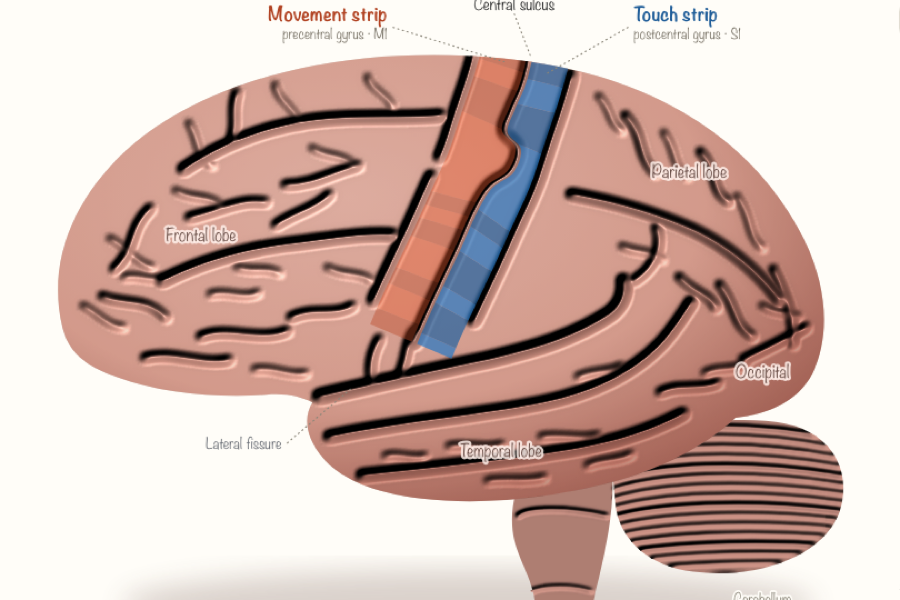
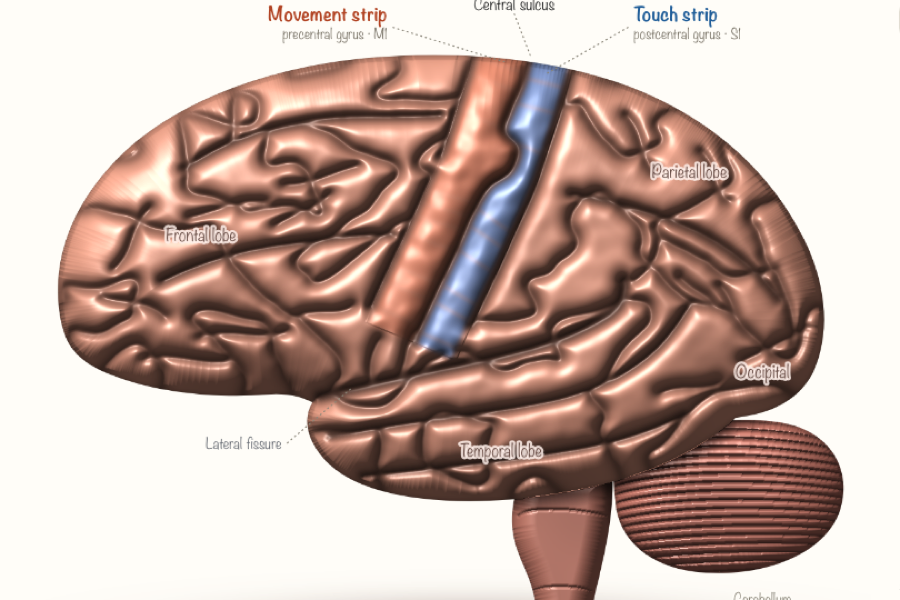
Sensation in the Brain: realistic shaded cortex, fix clipped slice labels
Renders the side-view brain from a height map with rounded gyri and
glossy lighting; strips are painted onto the pre/postcentral gyri.

diff --git a/sensation-in-the-brain/index.html b/sensation-in-the-brain/index.html
@@ -39,6 +39,9 @@
 
   .stage{display:grid;grid-template-columns:minmax(0,1.75fr) minmax(280px,1fr);gap:24px;align-items:start}
   svg{display:block;width:100%;height:auto;user-select:none;-webkit-user-select:none}
+  .latbox{position:relative}
+  .latbox canvas{position:absolute;inset:0;width:100%;height:100%;display:block}
+  .latbox svg{position:relative}
   .tip{font-size:14.5px;color:var(--muted);min-height:2.6em;margin:4px 0 0}
   .tip b{color:var(--ink)}
 
@@ -131,47 +134,17 @@
     </div>
     <div class="stage">
       <div>
+        <div class="latbox">
+        <canvas id="latCanvas" aria-hidden="true"></canvas>
         <svg id="lat" viewBox="60 8 900 690" role="img" aria-labelledby="latTitle">
           <title id="latTitle">Side view of the left hemisphere with the movement strip in front of the central sulcus and the touch strip behind it</title>
-          <defs>
-            <filter id="relief" x="-3%" y="-3%" width="106%" height="106%" color-interpolation-filters="sRGB">
-              <feGaussianBlur in="SourceGraphic" stdDeviation="2.8" result="b"/>
-              <feColorMatrix in="b" type="luminanceToAlpha" result="h"/>
-              <feDiffuseLighting in="h" surfaceScale="8" diffuseConstant="1.18" lighting-color="#ffffff" result="d"><feDistantLight azimuth="228" elevation="44"/></feDiffuseLighting>
-              <feSpecularLighting in="h" surfaceScale="8" specularConstant=".55" specularExponent="18" lighting-color="#fff6f0" result="sp"><feDistantLight azimuth="228" elevation="56"/></feSpecularLighting>
-              <feComposite in="sp" in2="SourceAlpha" operator="in" result="sp2"/>
-              <feFlood flood-color="#e6ad9e" result="c"/>
-              <feBlend in="d" in2="c" mode="multiply" result="t"/>
-              <feGaussianBlur in="SourceGraphic" stdDeviation="5.5" result="b2"/>
-              <feComponentTransfer in="b2" result="ao"><feFuncR type="linear" slope=".55" intercept=".45"/><feFuncG type="linear" slope=".6" intercept=".4"/><feFuncB type="linear" slope=".6" intercept=".4"/></feComponentTransfer>
-              <feBlend in="t" in2="ao" mode="multiply" result="t2"/>
-              <feComposite in="t2" in2="sp2" operator="arithmetic" k2="1" k3=".5" result="t3"/>
-              <feComposite in="t3" in2="SourceAlpha" operator="in"/>
-            </filter>
-            <filter id="relief2" x="-3%" y="-3%" width="106%" height="106%" color-interpolation-filters="sRGB">
-              <feGaussianBlur in="SourceGraphic" stdDeviation="1.6" result="b"/>
-              <feColorMatrix in="b" type="luminanceToAlpha" result="h"/>
-              <feDiffuseLighting in="h" surfaceScale="5" diffuseConstant="1.15" lighting-color="#ffffff" result="d"><feDistantLight azimuth="228" elevation="44"/></feDiffuseLighting>
-              <feFlood flood-color="#d99d8f" result="c"/>
-              <feBlend in="d" in2="c" mode="multiply" result="t"/>
-              <feGaussianBlur in="SourceGraphic" stdDeviation="3" result="b2"/>
-              <feComponentTransfer in="b2" result="ao"><feFuncR type="linear" slope=".5" intercept=".5"/><feFuncG type="linear" slope=".55" intercept=".45"/><feFuncB type="linear" slope=".55" intercept=".45"/></feComponentTransfer>
-              <feBlend in="t" in2="ao" mode="multiply" result="t2"/>
-              <feComposite in="t2" in2="SourceAlpha" operator="in"/>
-            </filter>
-            <filter id="shadow" x="-20%" y="-20%" width="140%" height="140%"><feGaussianBlur stdDeviation="14"/></filter>
-            <radialGradient id="vign" cx="38%" cy="32%" r="75%">
-              <stop offset="0" stop-color="#ffffff"/><stop offset=".62" stop-color="#f3e4df"/><stop offset="1" stop-color="#b98c84"/>
-            </radialGradient>
-            <clipPath id="cerClip"><path id="cerClipPath"/></clipPath>
-            <clipPath id="cbClip"><path id="cbClipPath"/></clipPath>
-          </defs>
-          <g id="latBack"></g>
-          <g id="latCer"></g>
+          <defs><clipPath id="cerClip"><path id="cerClipPath"/></clipPath></defs>
+          <path id="latPlaceholder" fill="#e2b3a5"/>
           <g id="latStrips" clip-path="url(#cerClip)"></g>
           <g id="latLabels"></g>
           <g id="latProbe"></g>
         </svg>
+        </div>
         <p class="tip" id="tip1" aria-live="polite">Tap the <b class="m">front strip</b> or the <b class="s">back strip</b>, or pick a body part below.</p>
         <div class="chips" id="chips1" role="group" aria-label="Stimulate a body part"></div>
       </div>
@@ -193,7 +166,7 @@
     </div>
     <div class="stage">
       <div>
-        <svg id="slice" viewBox="0 0 720 560" role="img" aria-labelledby="sliceTitle">
+        <svg id="slice" viewBox="0 -96 850 666" role="img" aria-labelledby="sliceTitle">
           <title id="sliceTitle">Slice through the left hemisphere showing the body map along the strip</title>
           <defs><mask id="gm2" maskUnits="userSpaceOnUse" x="0" y="0" width="720" height="560"></mask></defs>
           <g id="sliceBrain"></g>
@@ -532,46 +505,149 @@ const SULCI_MINOR=[
  'M826 386 C852 374 872 364 892 352','M858 292 C870 318 880 340 878 370','M802 308 C820 330 816 350 836 362',
  'M760 300 C776 318 790 316 798 332','M740 420 C760 410 780 418 800 410'
 ];
-const SULCI_TERT=[
- 'M250 140 C262 158 256 176 274 184','M340 100 C342 118 362 124 366 142','M436 92 C440 108 458 110 462 124','M378 166 C392 176 410 172 420 182',
- 'M236 210 C252 220 268 214 282 224','M168 260 C186 268 194 286 212 290','M140 330 C156 338 166 352 182 352','M272 318 C290 312 306 324 322 316',
- 'M318 396 C338 392 352 404 372 400','M182 300 C198 296 212 306 226 300','M300 290 C318 296 330 288 344 296','M394 290 C410 300 428 294 440 304',
- 'M676 112 C690 124 686 140 700 148','M744 150 C758 168 752 184 768 196','M820 216 C836 236 830 256 846 270','M700 268 C716 276 728 270 742 282',
- 'M846 330 C862 340 870 334 884 342','M616 466 C640 462 656 470 676 464','M520 476 C540 472 556 480 576 474','M560 512 C580 508 600 514 620 508',
- 'M664 496 C680 488 696 492 710 484','M454 486 C470 482 482 490 496 486','M786 400 C800 392 816 398 830 390','M654 404 C670 396 686 400 700 392'
-];
+
+const FOLIA=[]; for(let i=0;i<19;i++){ const y=452+i*8.6, b=i*0.9; FOLIA.push('M680 '+(y+18)+' C730 '+(y-6+b)+' 830 '+(y-12+b)+' 940 '+(y+14-b*.6)); }
+const STEM_LINES=['M592 548 C600 540 640 538 684 548','M606 626 C620 620 650 620 668 626'];
+
+/* ---- realistic surface: height map → lit, glossy render on a canvas ---- */
+function makeNoise(seed){ const R=rng(seed), p=new Uint8Array(256); for(let i=0;i<256;i++) p[i]=i;
+  for(let i=255;i>0;i--){ const j=Math.floor(R()*(i+1)), t=p[i]; p[i]=p[j]; p[j]=t; }
+  const P=new Uint8Array(512); for(let i=0;i<512;i++) P[i]=p[i&255];
+  const GX=[1,-1,1,-1,1,-1,0,0], GY=[1,1,-1,-1,0,0,1,-1], F2=0.5*(Math.sqrt(3)-1), G2=(3-Math.sqrt(3))/6;
+  return function(x,y){ const s=(x+y)*F2, i=Math.floor(x+s), j=Math.floor(y+s), t=(i+j)*G2, x0=x-(i-t), y0=y-(j-t);
+    const i1=x0>y0?1:0, j1=1-i1, x1=x0-i1+G2, y1=y0-j1+G2, x2=x0-1+2*G2, y2=y0-1+2*G2, ii=i&255, jj=j&255; let n=0, q, g;
+    q=0.5-x0*x0-y0*y0; if(q>0){ g=P[ii+P[jj]]&7; q*=q; n+=q*q*(GX[g]*x0+GY[g]*y0); }
+    q=0.5-x1*x1-y1*y1; if(q>0){ g=P[ii+i1+P[jj+j1]]&7; q*=q; n+=q*q*(GX[g]*x1+GY[g]*y1); }
+    q=0.5-x2*x2-y2*y2; if(q>0){ g=P[ii+1+P[jj+1]]&7; q*=q; n+=q*q*(GX[g]*x2+GY[g]*y2); }
+    return 70*n; }; }
+// exact Euclidean distance transform (Felzenszwalb & Huttenlocher); sites where mask=1
+function edt(mask,W,H){
+  const INF=1e20, M=Math.max(W,H), f=new Float64Array(M), d=new Float64Array(M), z=new Float64Array(M+1), v=new Int32Array(M), g=new Float64Array(W*H);
+  for(let i=0;i<W*H;i++) g[i]=mask[i]?0:INF;
+  function dt(n){ let k=0; v[0]=0; z[0]=-INF; z[1]=INF;
+    for(let q=1;q<n;q++){ let s=((f[q]+q*q)-(f[v[k]]+v[k]*v[k]))/(2*q-2*v[k]);
+      while(s<=z[k]){ k--; s=((f[q]+q*q)-(f[v[k]]+v[k]*v[k]))/(2*q-2*v[k]); }
+      k++; v[k]=q; z[k]=s; z[k+1]=INF; }
+    k=0; for(let q=0;q<n;q++){ while(z[k+1]<q) k++; d[q]=(q-v[k])*(q-v[k])+f[v[k]]; } }
+  for(let x=0;x<W;x++){ for(let y=0;y<H;y++) f[y]=g[y*W+x]; dt(H); for(let y=0;y<H;y++) g[y*W+x]=d[y]; }
+  const out=new Float32Array(W*H);
+  for(let y=0;y<H;y++){ for(let x=0;x<W;x++) f[x]=g[y*W+x]; dt(W); for(let x=0;x<W;x++) out[y*W+x]=Math.sqrt(d[x]); }
+  return out;
+}
+const SEGS=[]; let LR=null;
+function renderLat(){
+  const s=1.4, W=Math.round(900*s), H=Math.round(690*s), N=W*H;
+  const oc=document.createElement('canvas'); oc.width=W; oc.height=H; const c=oc.getContext('2d',{willReadFrequently:true});
+  const raster=(draw,blur)=>{ c.setTransform(1,0,0,1,0,0); c.clearRect(0,0,W,H); c.filter=blur?'blur('+(blur*s)+'px)':'none';
+    c.setTransform(s,0,0,s,-60*s,-8*s); draw(c); c.filter='none'; return c.getImageData(0,0,W,H).data; };
+  const alpha=d=>{ const a=new Float32Array(N); for(let i=0;i<N;i++) a[i]=d[i*4+3]/255; return a; };
+  const site=(a,th)=>{ const m=new Uint8Array(N); for(let i=0;i<N;i++) m[i]=a[i]>th?1:0; return m; };
+  const outside=a=>{ const m=new Uint8Array(N); for(let i=0;i<N;i++) m[i]=a[i]<0.5?1:0; return m; };
+  const fillP=d=>cc=>{ cc.fillStyle='#000'; cc.fill(new Path2D(d)); };
+  const strokes=(list,wf)=>cc=>{ cc.strokeStyle='#000'; cc.lineCap='round'; cc.lineJoin='round'; list.forEach((d,i)=>{ cc.lineWidth=wf(i); cc.stroke(new Path2D(d)); }); };
+  const aCer=alpha(raster(fillP(CER))), aCb=alpha(raster(fillP(CB))), aSt=alpha(raster(fillP(STEM)));
+  const majorD=SULCI_MAJOR.concat([pathD(Pc),pathD(offCurve(Sc,'move',WID.move+6,0,0.43)),pathD(offCurve(Sc,'move',WID.move+6,0.5,0.95)),pathD(offCurve(Sc,'touch',WID.touch+6,0,0.88))]);
+  const majM=site(alpha(raster(strokes(majorD,i=>i===0?6:i===SULCI_MAJOR.length?2.4:1.4))),0.3);
+  const minM=site(alpha(raster(strokes(SULCI_MINOR.concat(STEM_LINES),()=>1))),0.3);
+  const dMaj=edt(majM,W,H), dMin=edt(minM,W,H);
+  const dFol=edt(site(alpha(raster(cc=>{ cc.save(); cc.clip(new Path2D(CB)); strokes(FOLIA,()=>0.8)(cc); cc.restore(); })),0.3),W,H);
+  const eCer=edt(outside(aCer),W,H), eCb=edt(outside(aCb),W,H), eSt=edt(outside(aSt),W,H), oCer=edt(site(aCer,0.5),W,H), oCb=edt(site(aCb,0.5),W,H);
+  const zone=alpha(raster(fillP(pathD(offCurve(Sc,'move',WID.move+5,0,1).concat(offCurve(Sc,'touch',WID.touch+5,0,1).reverse()),true))));
+  const tint={move:alpha(raster(cc=>SEGS.forEach(q=>{ if(q.sys==='move') fillP(pathD(q.poly,true))(cc); }),2.2)),
+              touch:alpha(raster(cc=>SEGS.forEach(q=>{ if(q.sys==='touch') fillP(pathD(q.poly,true))(cc); }),2.2))};
+  const sidD=raster(cc=>SEGS.forEach((q,k)=>{ cc.fillStyle='rgb('+(k+1)+',0,0)'; cc.fill(new Path2D(pathD(q.poly,true))); }));
+  const SID=new Uint8Array(N); for(let i=0;i<N;i++) SID[i]=sidD[i*4+3]>200?sidD[i*4]:0;
+  const nz=makeNoise(7), nw=makeNoise(19), nb=makeNoise(31);
+  const shape=(t,p)=>1-Math.pow(1-Math.min(1,t),p);
+  // random sulci = zero-crossings of a warped noise field, joined with the named sulci; gyri bulge between them
+  const NZ=new Float32Array(N);
+  for(let py=0;py<H;py++) for(let px=0;px<W;px++){ const i=py*W+px; if(aCer[i]<=0) continue;
+    const x=60+px/s, y=8+py/s, wx=x+16*nw(x/150,y/150), wy=y+16*nw(x/150+37,y/150+71);
+    NZ[i]=nz(wx/146,wy/98)+0.12*nz(wx/60+9,wy/46+3); }
+  const allM=new Uint8Array(N);
+  for(let i=0;i<N-W-1;i++){ if(majM[i]||minM[i]){ allM[i]=1; continue; }
+    if(aCer[i]>0.5 && zone[i]<0.4 && (NZ[i]*NZ[i+1]<0 || NZ[i]*NZ[i+W]<0)) allM[i]=1; }
+  const dAll=edt(allM,W,H);
+  // gyral crowns: rounded profile from the distance to the nearest sulcus, blurred so ridges don't crease
+  const GY=new Float32Array(N);
+  for(let i=0;i<N;i++){ if(aCer[i]<=0) continue; const R=lerp(19,25,zone[i]), tg=clamp((dAll[i]/s-1.6)/R,0,1); GY[i]=Math.sqrt(1-(1-tg)*(1-tg)); }
+  (function blur(a,r,pass){ const t=new Float32Array(N);
+    for(let p=0;p<pass;p++){
+      for(let y=0;y<H;y++){ let acc=0; const o=y*W; for(let x=-r;x<W;x++){ if(x+r<W) acc+=a[o+x+r]; if(x-r-1>=0) acc-=a[o+x-r-1]; if(x>=0) t[o+x]=acc/(2*r+1); } }
+      for(let x=0;x<W;x++){ let acc=0; for(let y=-r;y<H;y++){ if(y+r<H) acc+=t[(y+r)*W+x]; if(y-r-1>=0) acc-=t[(y-r-1)*W+x]; if(y>=0) a[y*W+x]=acc/(2*r+1); } } }
+  })(GY,Math.round(2.6*s),2);
+  const Hh=new Float32Array(N), AO=new Float32Array(N), ALB=new Float32Array(N*3), REG=new Uint8Array(N), A=new Float32Array(N);
+  for(let py=0;py<H;py++) for(let px=0;px<W;px++){
+    const i=py*W+px, a=Math.max(aCer[i],aCb[i],aSt[i]); A[i]=a; if(a<=0) continue;
+    const x=60+px/s, y=8+py/s, tone=1+0.07*nb(x/160,y/160);
+    if(aCer[i]>=0.5 || (aCer[i]>0 && aCer[i]>=aCb[i] && aCer[i]>=aSt[i])){
+      REG[i]=1; const de=eCer[i]/s, t=Math.min(1,de/125), dome=Math.sqrt(1-(1-t)*(1-t));
+      const zz=zone[i], gy=GY[i];
+      const lump=(0.5+0.5*nb(x/34,y/34))*(0.4+0.6*zz);
+      const deep=shape(dMaj[i]/s/10,2);
+      Hh[i]=22+72*dome+(17*gy+2.2*lump)*Math.min(1,de/5);
+      AO[i]=(0.5+0.5*Math.pow(gy,0.7))*(0.72+0.28*deep);
+      ALB[i*3]=220*tone; ALB[i*3+1]=150*tone; ALB[i*3+2]=126*tone;
+    } else if(aCb[i]>=aSt[i]){
+      REG[i]=2; const de=eCb[i]/s, t=Math.min(1,de/70), dome=Math.sqrt(1-(1-t)*(1-t)), hf=shape(dFol[i]/s/3.2,2);
+      Hh[i]=46*dome+4.5*hf*Math.min(1,de/3); AO[i]=(0.66+0.34*hf)*(0.35+0.65*Math.min(1,oCer[i]/s/16));
+      ALB[i*3]=184*tone; ALB[i*3+1]=110*tone; ALB[i*3+2]=96*tone;
+    } else {
+      REG[i]=3; const de=eSt[i]/s, t=Math.min(1,de/26), dome=Math.sqrt(1-(1-t)*(1-t)), hs=0.4+0.6*shape(dMin[i]/s/3,2);
+      Hh[i]=34*dome+3*hs; AO[i]=(0.6+0.4*hs)*(0.35+0.65*Math.min(1,oCer[i]/s/18))*(0.45+0.55*Math.min(1,oCb[i]/s/14));
+      ALB[i*3]=190*tone; ALB[i*3+1]=118*tone; ALB[i*3+2]=102*tone;
+    }
+  }
+  let Lx=-0.42,Ly=-0.62,Lz=0.66; const Ln=Math.hypot(Lx,Ly,Lz); Lx/=Ln; Ly/=Ln; Lz/=Ln;
+  let hx=Lx,hy=Ly,hz=Lz+1; const hn=Math.hypot(hx,hy,hz); hx/=hn; hy/=hn; hz/=hn;
+  const LIGHT=new Float32Array(N), SPEC=new Float32Array(N), SH=new Float32Array(N);
+  for(let py=1;py<H-1;py++) for(let px=1;px<W-1;px++){
+    const i=py*W+px; const x=60+px/s, y=8+py/s;
+    const dx=(x-540)/330, dy=(y-652)/30; SH[i]=0.26*Math.exp(-2.4*dx*dx-1.8*dy*dy);
+    if(!REG[i]) continue;
+    const gx=(Hh[i+1]-Hh[i-1])*s/2, gy=(Hh[i+W]-Hh[i-W])*s/2, l=Math.hypot(gx,gy,1), nx=-gx/l, ny=-gy/l, nzv=1/l;
+    const dif=Math.max(0,nx*Lx+ny*Ly+nzv*Lz), nh=Math.max(0,nx*hx+ny*hy+nzv*hz);
+    LIGHT[i]=(0.36+0.72*dif)*AO[i];
+    SPEC[i]=(0.38*Math.pow(nh,34)+0.1*Math.pow(nh,6))*(0.4+0.6*AO[i]);
+  }
+  const cv=$('latCanvas'); cv.width=W; cv.height=H;
+  LR={W,H,N,LIGHT,SPEC,ALB,REG,A,SH,SID,tint,ctx:cv.getContext('2d'),img:new ImageData(W,H)};
+  $('latPlaceholder').setAttribute('display','none');
+  paintLat();
+}
+function composeLat(){
+  if(!LR) return;
+  const {N,LIGHT,SPEC,ALB,REG,A,SH,SID,tint,img}=LR, d=img.data, hov=paintLat.hov;
+  const BASE={move:[238,122,86],touch:[96,150,228]};
+  const seg=SEGS.map(q=>{ const sel=s1sel&&s1sel.sys===q.sys&&s1sel.id===q.id, hv=hov&&hov.sys===q.sys&&hov.id===q.id;
+    const b=BASE[q.sys], w=sel?1:hv?.92:q.sys===s1sys?.74:.46, k=sel?.3:hv?.15:0;
+    return {sys:q.sys,w,c:[lerp(b[0],255,k),lerp(b[1],255,k),lerp(b[2],255,k)]}; });
+  const baseW={move:s1sys==='move'?.74:.46, touch:s1sys==='touch'?.74:.46};
+  for(let i=0;i<N;i++){
+    const a=A[i], j=i*4;
+    if(!REG[i]){ d[j]=90; d[j+1]=58; d[j+2]=48; d[j+3]=SH[i]*255; continue; }
+    let r=ALB[i*3], g=ALB[i*3+1], b=ALB[i*3+2];
+    if(REG[i]===1){
+      for(const sys of ['move','touch']){ const m=tint[sys][i]; if(m<=0) continue;
+        const q=SID[i]?seg[SID[i]-1]:null, use=q&&q.sys===sys?q:null, w=(use?use.w:baseW[sys])*m, cc=use?use.c:BASE[sys];
+        r=lerp(r,cc[0],w); g=lerp(g,cc[1],w); b=lerp(b,cc[2],w); }
+    }
+    const L=LIGHT[i], S=SPEC[i]*255;
+    r=r*L+S; g=g*L+S; b=b*L+S;
+    const sa=SH[i]*(1-a), fa=a+sa;
+    d[j]=Math.min(255,(r*a+90*sa)/fa); d[j+1]=Math.min(255,(g*a+58*sa)/fa); d[j+2]=Math.min(255,(b*a+48*sa)/fa); d[j+3]=fa*255;
+  }
+  LR.ctx.putImageData(img,0,0);
+}
 
 let s1sys='touch', s1sel=null, showLbl=true;
-const gBack=$('latBack'), gCer=$('latCer'), gStrips=$('latStrips'), gLbl=$('latLabels'), gProbe=$('latProbe');
+const gStrips=$('latStrips'), gLbl=$('latLabels'), gProbe=$('latProbe');
 (function buildLat(){
-  $('cerClipPath').setAttribute('d',CER); $('cbClipPath').setAttribute('d',CB);
-  el('ellipse',{cx:540,cy:640,rx:360,ry:36,fill:'#5a3a30',opacity:.22,filter:'url(#shadow)'},gBack);
-  // brainstem + cerebellum
-  const gb=el('g',{filter:'url(#relief2)'},gBack);
-  el('path',{d:STEM,fill:'#fff'},gb);
-  el('path',{d:'M592 548 C600 540 640 538 684 548',fill:'none',stroke:'#444','stroke-width':3,'stroke-linecap':'round'},gb);
-  el('path',{d:'M606 626 C620 620 650 620 668 626',fill:'none',stroke:'#555','stroke-width':2.2,'stroke-linecap':'round'},gb);
-  el('path',{d:CB,fill:'#fff'},gb);
-  const fol=el('g',{'clip-path':'url(#cbClip)',fill:'none',stroke:'#2a2a2a','stroke-linecap':'round'},gb);
-  for(let i=0;i<17;i++){ const y=458+i*9.6, b=i*0.9; el('path',{d:'M680 '+(y+18)+' C730 '+(y-6+b)+' 830 '+(y-12+b)+' 940 '+(y+14-b*.6),'stroke-width':i%4===0?2.6:1.5},fol); }
-  // cerebrum relief
-  const gc=el('g',{filter:'url(#relief)'},gCer);
-  el('path',{d:CER,fill:'#fff'},gc);
-  const sg=el('g',{'clip-path':'url(#cerClip)',fill:'none','stroke-linecap':'round','stroke-linejoin':'round'},gc);
-  SULCI_TERT.forEach(d=>el('path',{d,stroke:'#666','stroke-width':3},sg));
-  SULCI_MINOR.forEach(d=>el('path',{d,stroke:'#333','stroke-width':4.4},sg));
-  SULCI_MAJOR.forEach((d,i)=>el('path',{d,stroke:'#000','stroke-width':i===0?9:6.5},sg));
-  el('path',{d:pathD(Pc),stroke:'#000','stroke-width':7.5},sg);                                  // central sulcus
-  el('path',{d:pathD(offCurve(Sc,'move',WID.move+6,0.03,0.43)),stroke:'#000','stroke-width':6.5},sg);   // precentral sulcus
-  el('path',{d:pathD(offCurve(Sc,'move',WID.move+6,0.5,0.93)),stroke:'#000','stroke-width':6.5},sg);
-  el('path',{d:pathD(offCurve(Sc,'touch',WID.touch+6,0.05,0.86)),stroke:'#000','stroke-width':6.5},sg); // postcentral sulcus
-  el('path',{d:CER,fill:'url(#vign)',style:'mix-blend-mode:multiply','pointer-events':'none'},gCer);
-  // strips
+  $('cerClipPath').setAttribute('d',CER); $('latPlaceholder').setAttribute('d',CER);
   for(const sys of ['move','touch']){
-    const R=LAT[sys], col=colOf(sys);
-    LIST[sys].filter(r=>!r.med).forEach((r,idx)=>{
-      const [t0,t1]=R[r.id];
-      const p=el('path',{d:pathD(stripPoly(sys,t0,t1),true),class:'seg','data-sys':sys,'data-id':r.id,fill:idx%2?col:shade(col,.82),style:'mix-blend-mode:color'},gStrips);
+    LIST[sys].filter(r=>!r.med).forEach(r=>{
+      const [t0,t1]=LAT[sys][r.id], poly=stripPoly(sys,t0,t1); SEGS.push({sys,id:r.id,poly});
+      const p=el('path',{d:pathD(poly,true),class:'seg','data-sys':sys,'data-id':r.id,fill:'#000','fill-opacity':0},gStrips);
       p.addEventListener('mouseenter',()=>hoverLat(sys,r.id));
       p.addEventListener('mouseleave',()=>hoverLat(null));
       p.addEventListener('click',()=>stimulate(sys,r.id));
@@ -579,6 +655,7 @@ const gBack=$('latBack'), gCer=$('latCer'), gStrips=$('latStrips'), gLbl=$('latL
   }
   el('g',{id:'latEdge','pointer-events':'none'},gStrips);
   drawLatLabels();
+  setTimeout(renderLat,30);
 })();
 function drawLatLabels(){
   gLbl.innerHTML='';
@@ -601,14 +678,11 @@ function drawLatLabels(){
 }
 function paintLat(){
   const hov=paintLat.hov;
-  gStrips.querySelectorAll('.seg').forEach(p=>{
-    const sys=p.dataset.sys, id=p.dataset.id, sel=(s1sel&&s1sel.sys===sys&&s1sel.id===id), hv=hov&&hov.sys===sys&&hov.id===id;
-    p.setAttribute('fill-opacity', sel?1 : hv?.95 : sys===s1sys? .72 : .42);
-  });
+  composeLat();
   const edge=$('latEdge'); edge.innerHTML='';
-  const outl=(sys,id,w)=>{ const r=LAT[sys][id]; if(!r) return; el('path',{d:pathD(stripPoly(sys,r[0],r[1]),true),fill:'none',stroke:'#fff','stroke-width':w,'stroke-linejoin':'round',opacity:.95},edge); };
-  if(hov) outl(hov.sys,hov.id,2);
-  if(s1sel) outl(s1sel.sys,s1sel.id,3);
+  const outl=(sys,id,w,o)=>{ const r=LAT[sys][id]; if(!r) return; el('path',{d:pathD(stripPoly(sys,r[0],r[1]),true),fill:'none',stroke:'#fff','stroke-width':w,'stroke-linejoin':'round',opacity:o},edge); };
+  if(hov) outl(hov.sys,hov.id,1.4,.55);
+  if(s1sel) outl(s1sel.sys,s1sel.id,1.8,.75);
 }
 function hoverLat(sys,id){
   paintLat.hov = sys?{sys,id}:null; paintLat();
